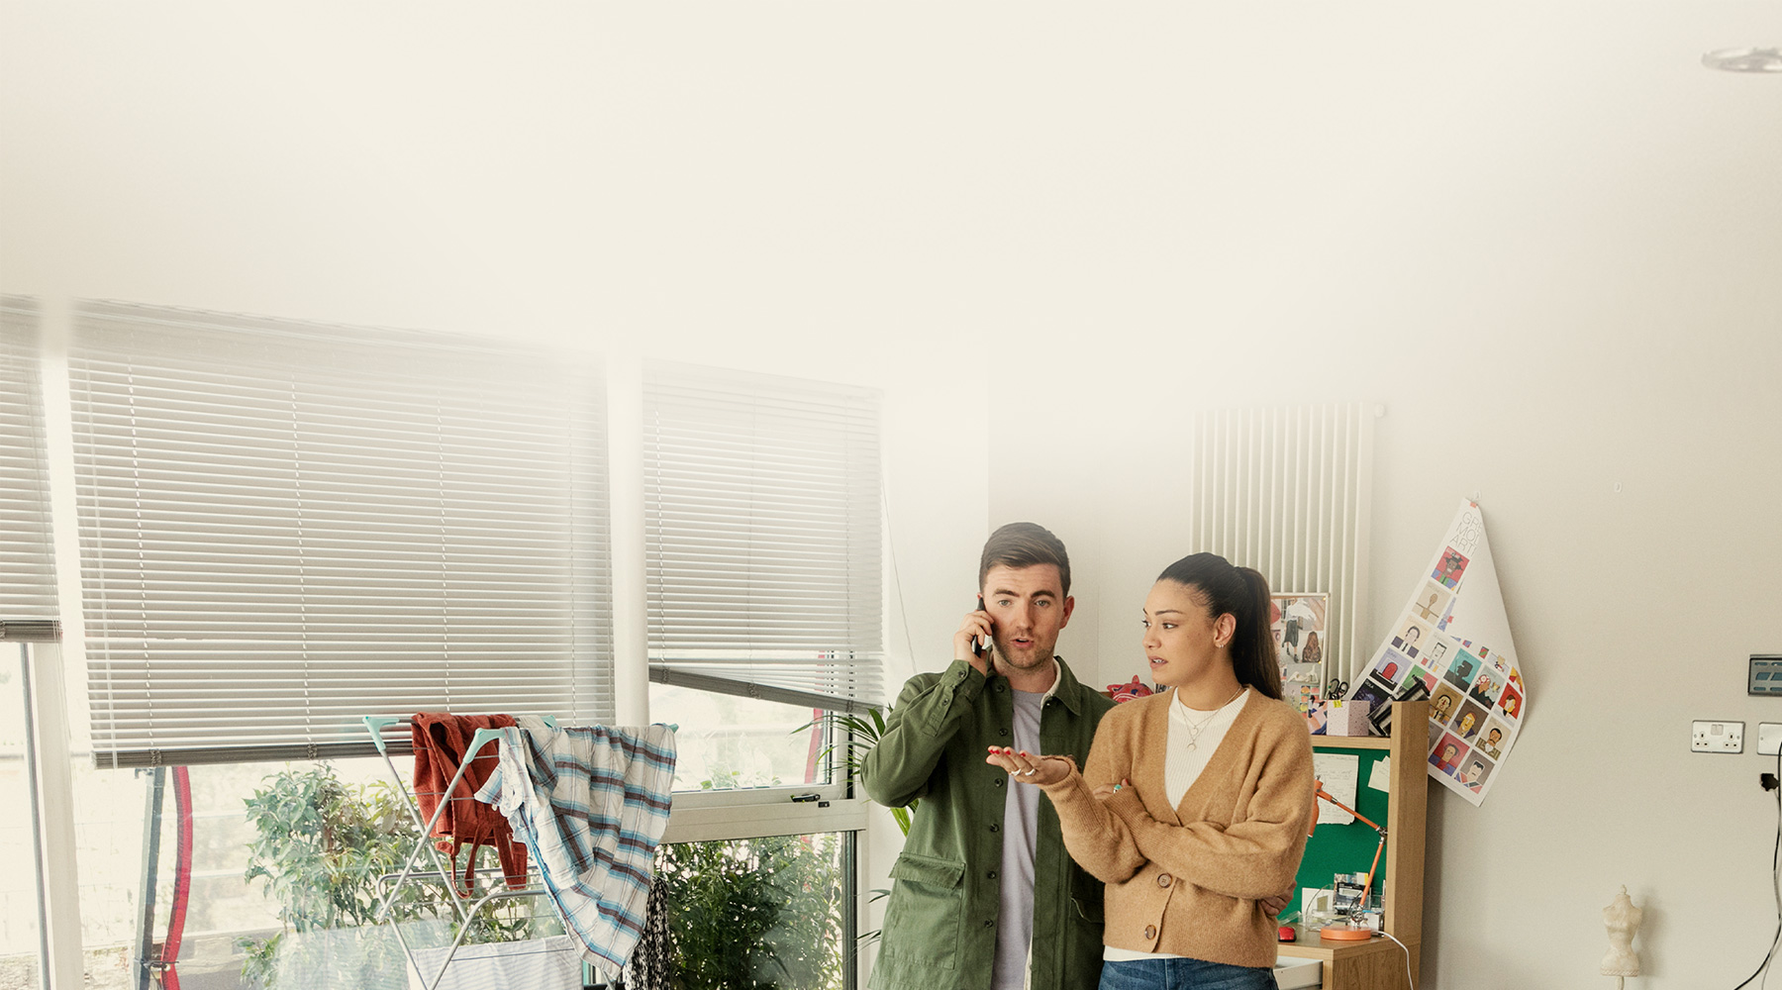
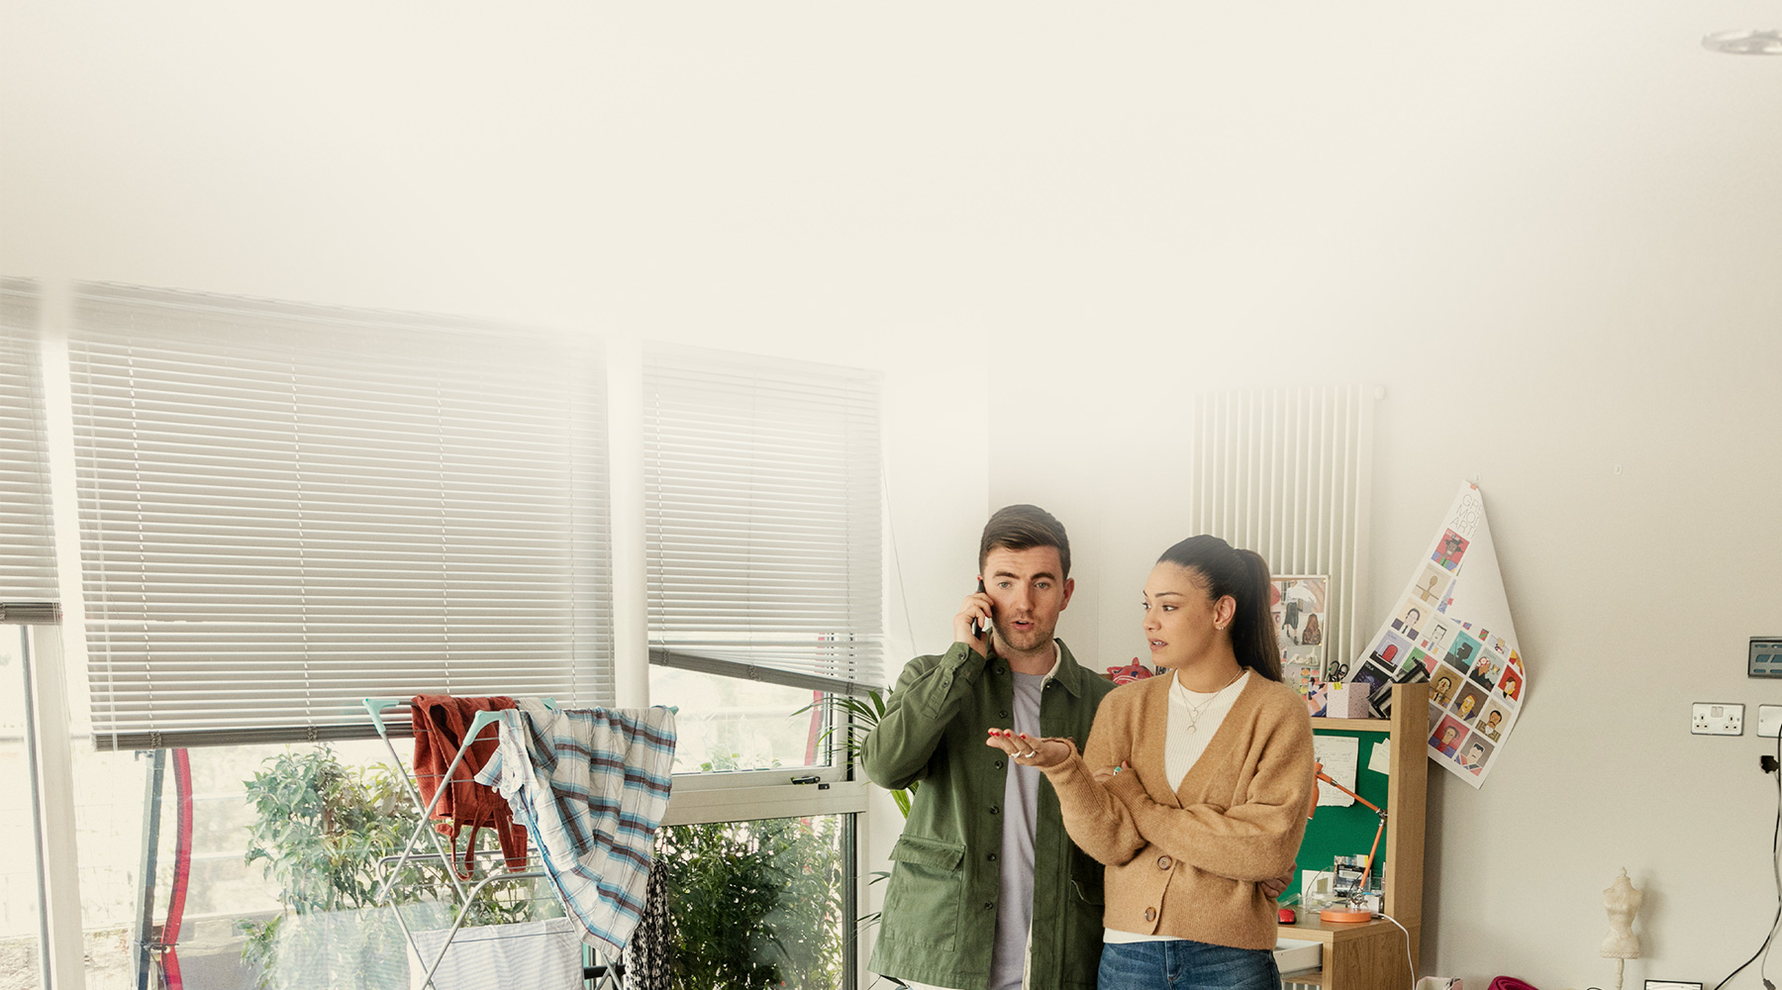
Retouched Huskies stage images for production and added examples

diff --git a/components/product-stages.html b/components/product-stages.html
@@ -345,6 +345,39 @@
             <div class="l-grid l-grid--max-width">
                 <div class="l-grid__row">
                     <div class="l-grid__column-12 u-margin-top-lg u-margin-bottom-lg">
+                        <h5>stage-home-ad-01</h5>
+                    </div>
+                </div>
+            </div>
+            <div class="c-stage c-stage--landing c-stage--1by1dot4-ratio">
+                <div class="c-stage__wrapper">
+                    <div class="c-stage__image-container">
+                        <picture class="c-image c-stage__image c-stage__image--cover">
+                            <img class="c-image__img" alt="" src="../assets/img/stage/stage-home-ad-01.jpg" />
+                        </picture>
+                    </div>
+                    <div class="l-grid l-grid--max-width c-stage__content">
+                        <div class="l-grid__row c-stage__content__grid">
+                            <div class="l-grid__column-large-8 offset-large-2 l-grid__column-medium-10 offset-medium-1">
+                                <h4 class="c-heading c-stage__topline">Allianz <em class="u-text-weight-semibold">Product title</em></h4>
+                            </div>
+                            <div class="l-grid__column-large-10 offset-large-1 l-grid__column-medium-12">
+                                <h1 class="c-heading c-stage__headline u-text-weight-light">Headline for <em class="u-text-weight-bold">stage layouts</em></h1>
+                            </div>
+                            <div class="l-grid__column-medium-10 offset-medium-1 l-grid__column-large-8 offset-large-2">
+                                <h3 class="c-heading c-stage__highlight-text u-text-weight-bold"><em class="u-text-weight-bold">XX% off</em> new policies&nbsp;online*</h3>
+                                <p class="c-copy c-copy--medium"><span class="ai-terms">*Minimum premium of &euro;284 applies. The premium reduction does not apply to the personal accident, personal effects, windscreen cover or breakdown assistance&nbsp;options.</span></p>
+                            </div>
+                            <div class="l-grid__column-medium-8 offset-medium-2 c-stage__button__grid">
+                                <a href="" class="c-button">Get Quote</a>
+                            </div>
+                        </div>
+                    </div>
+                </div>
+            </div>
+            <div class="l-grid l-grid--max-width">
+                <div class="l-grid__row">
+                    <div class="l-grid__column-12 u-margin-top-lg u-margin-bottom-lg">
                         <h5>stage-renters-01</h5>
                     </div>
                 </div>
@@ -354,6 +387,39 @@
                     <div class="c-stage__image-container">
                         <picture class="c-image c-stage__image c-stage__image--cover">
                             <img class="c-image__img" alt="" src="../assets/img/stage/stage-renters-01.jpg" />
+                        </picture>
+                    </div>
+                    <div class="l-grid l-grid--max-width c-stage__content">
+                        <div class="l-grid__row c-stage__content__grid">
+                            <div class="l-grid__column-large-8 offset-large-2 l-grid__column-medium-10 offset-medium-1">
+                                <h4 class="c-heading c-stage__topline">Allianz <em class="u-text-weight-semibold">Product title</em></h4>
+                            </div>
+                            <div class="l-grid__column-large-10 offset-large-1 l-grid__column-medium-12">
+                                <h1 class="c-heading c-stage__headline u-text-weight-light">Headline for <em class="u-text-weight-bold">stage layouts</em></h1>
+                            </div>
+                            <div class="l-grid__column-medium-10 offset-medium-1 l-grid__column-large-8 offset-large-2">
+                                <h3 class="c-heading c-stage__highlight-text u-text-weight-bold"><em class="u-text-weight-bold">XX% off</em> new policies&nbsp;online*</h3>
+                                <p class="c-copy c-copy--medium"><span class="ai-terms">*Minimum premium of &euro;284 applies. The premium reduction does not apply to the personal accident, personal effects, windscreen cover or breakdown assistance&nbsp;options.</span></p>
+                            </div>
+                            <div class="l-grid__column-medium-8 offset-medium-2 c-stage__button__grid">
+                                <a href="" class="c-button">Get Quote</a>
+                            </div>
+                        </div>
+                    </div>
+                </div>
+            </div>
+            <div class="l-grid l-grid--max-width">
+                <div class="l-grid__row">
+                    <div class="l-grid__column-12 u-margin-top-lg u-margin-bottom-lg">
+                        <h5>stage-renters-ad-01</h5>
+                    </div>
+                </div>
+            </div>
+            <div class="c-stage c-stage--landing c-stage--1by1dot4-ratio">
+                <div class="c-stage__wrapper">
+                    <div class="c-stage__image-container">
+                        <picture class="c-image c-stage__image c-stage__image--cover">
+                            <img class="c-image__img" alt="" src="../assets/img/stage/stage-renters-ad-01.jpg" />
                         </picture>
                     </div>
                     <div class="l-grid l-grid--max-width c-stage__content">
@@ -953,6 +1019,39 @@
                     </div>
                 </div>
             </div>
+            <div class="l-grid l-grid--max-width">
+                <div class="l-grid__row">
+                    <div class="l-grid__column-12 u-margin-top-lg u-margin-bottom-lg">
+                        <h5>stage-why-allianz-ad-01</h5>
+                    </div>
+                </div>
+            </div>
+            <div class="c-stage c-stage--landing c-stage--1by1dot4-ratio">
+                <div class="c-stage__wrapper">
+                    <div class="c-stage__image-container">
+                        <picture class="c-image c-stage__image c-stage__image--cover">
+                            <img class="c-image__img" alt="" src="../assets/img/stage/stage-why-allianz-ad-01.jpg" />
+                        </picture>
+                    </div>
+                    <div class="l-grid l-grid--max-width c-stage__content">
+                        <div class="l-grid__row c-stage__content__grid">
+                            <div class="l-grid__column-large-8 offset-large-2 l-grid__column-medium-10 offset-medium-1">
+                                <h4 class="c-heading c-stage__topline">Allianz <em class="u-text-weight-semibold">Product title</em></h4>
+                            </div>
+                            <div class="l-grid__column-large-10 offset-large-1 l-grid__column-medium-12">
+                                <h1 class="c-heading c-stage__headline u-text-weight-light">Headline for <em class="u-text-weight-bold">stage layouts</em></h1>
+                            </div>
+                            <div class="l-grid__column-medium-10 offset-medium-1 l-grid__column-large-8 offset-large-2">
+                                <h3 class="c-heading c-stage__highlight-text u-text-weight-bold"><em class="u-text-weight-bold">XX% off</em> new policies&nbsp;online*</h3>
+                                <p class="c-copy c-copy--medium"><span class="ai-terms">*Minimum premium of &euro;284 applies. The premium reduction does not apply to the personal accident, personal effects, windscreen cover or breakdown assistance&nbsp;options.</span></p>
+                            </div>
+                            <div class="l-grid__column-medium-8 offset-medium-2 c-stage__button__grid">
+                                <a href="" class="c-button">Get Quote</a>
+                            </div>
+                        </div>
+                    </div>
+                </div>
+            </div>
         </div>
         <div class="l-grid l-grid--max-width">
             <div class="l-grid__row">
@@ -975,6 +1074,39 @@
                     <div class="c-stage__image-container">
                         <picture class="c-image c-stage__image c-stage__image--cover">
                             <img class="c-image__img" alt="" src="../assets/img/stage/stage-ai-app-01.jpg" />
+                        </picture>
+                    </div>
+                    <div class="l-grid l-grid--max-width c-stage__content">
+                        <div class="l-grid__row c-stage__content__grid">
+                            <div class="l-grid__column-large-8 offset-large-2 l-grid__column-medium-10 offset-medium-1">
+                                <h4 class="c-heading c-stage__topline">Allianz <em class="u-text-weight-semibold">Product title</em></h4>
+                            </div>
+                            <div class="l-grid__column-large-10 offset-large-1 l-grid__column-medium-12">
+                                <h1 class="c-heading c-stage__headline u-text-weight-light">Headline for <em class="u-text-weight-bold">stage layouts</em></h1>
+                            </div>
+                            <div class="l-grid__column-medium-10 offset-medium-1 l-grid__column-large-8 offset-large-2">
+                                <h3 class="c-heading c-stage__highlight-text u-text-weight-bold"><em class="u-text-weight-bold">XX% off</em> new policies&nbsp;online*</h3>
+                                <p class="c-copy c-copy--medium"><span class="ai-terms">*Minimum premium of &euro;284 applies. The premium reduction does not apply to the personal accident, personal effects, windscreen cover or breakdown assistance&nbsp;options.</span></p>
+                            </div>
+                            <div class="l-grid__column-medium-8 offset-medium-2 c-stage__button__grid">
+                                <a href="" class="c-button">Get Quote</a>
+                            </div>
+                        </div>
+                    </div>
+                </div>
+            </div>
+            <div class="l-grid l-grid--max-width">
+                <div class="l-grid__row">
+                    <div class="l-grid__column-12 u-margin-top-lg u-margin-bottom-lg">
+                        <h5>stage-child-ball-01</h5>
+                    </div>
+                </div>
+            </div>
+            <div class="c-stage c-stage--landing c-stage--1by1dot4-ratio">
+                <div class="c-stage__wrapper">
+                    <div class="c-stage__image-container">
+                        <picture class="c-image c-stage__image c-stage__image--cover">
+                            <img class="c-image__img" alt="" src="../assets/img/stage/stage-child-ball-01.jpg" />
                         </picture>
                     </div>
                     <div class="l-grid l-grid--max-width c-stage__content">

diff --git a/roi/index-cookie.html b/roi/index-cookie.html
@@ -1289,7 +1289,7 @@
                     <div class="c-carousel__slide c-carousel__stage__slide u-flexible-ratio-small-down--1by1dot4 js-data-stage--with-navigation" data-label="Home Insurance" data-icon="c-icon c-icon--product-house">
                         <div class="c-stage__image-container">
                             <picture class="c-image c-stage__image c-stage__image--cover">
-                                <img class="c-image__img" alt="" src="../assets/img/stage/stage-home-01.jpg" />
+                                <img class="c-image__img" alt="" src="../assets/img/stage/stage-home-ad-01.jpg" />
                             </picture>
                         </div>
                         <div class="c-stage__content l-grid l-grid--max-width">
@@ -1348,7 +1348,7 @@
                                     <h4 class="c-heading c-stage__topline">Take control with</h4>
                                 </div>
                                 <div class="l-grid__column-large-10 offset-large-1">
-                                    <h1 class="c-heading c-heading--bold-cap c-stage__headline js-extra-height-headline"> Secure <em class="t-primary-brand">MyAllianz</em></h1>
+                                    <h1 class="c-heading c-heading--bold-cap c-stage__headline js-extra-height-headline"> Secure <em class="t-process-info">MyAllianz</em></h1>
                                 </div>
                                 <div class="l-grid__column-medium-10 offset-medium-1 l-grid__column-large-8 offset-large-2">
                                     <p class="c-copy c-copy--large">Curabitur eu rhoncus turpis. Aenean nec malesuada tortor. In maximus ligula ut faucibus tincidunt.</p>
@@ -1362,7 +1362,7 @@
                     <div class="c-carousel__slide c-carousel__stage__slide u-flexible-ratio-small-down--1by1dot4 js-data-stage--with-navigation" data-label="Why Allianz?" data-icon="c-icon c-icon--product-heart">
                         <div class="c-stage__image-container">
                             <picture class="c-image c-stage__image c-stage__image--cover">
-                                <img class="c-image__img" alt="" src="../assets/img/stage/stage-why-allianz-01.jpg" />
+                                <img class="c-image__img" alt="" src="../assets/img/stage/stage-why-allianz-ad-01.jpg" />
                             </picture>
                         </div>
                         <div class="c-stage__content l-grid l-grid--max-width">
@@ -1371,7 +1371,7 @@
                                     <h4 class="c-heading c-stage__topline">Learn why you should</h4>
                                 </div>
                                 <div class="l-grid__column-large-10 offset-large-1">
-                                    <h1 class="c-heading c-heading--bold-cap c-stage__headline js-extra-height-headline"> Choose <em class="t-primary-brand">Allianz</em></h1>
+                                    <h1 class="c-heading c-heading--bold-cap c-stage__headline js-extra-height-headline"> Choose <em class="t-vibrant-purple">Allianz</em></h1>
                                 </div>
                                 <div class="l-grid__column-medium-10 offset-medium-1 l-grid__column-large-8 offset-large-2">
                                     <p class="c-copy c-copy--large">Curabitur eu rhoncus turpis. Aenean nec malesuada tortor. In maximus ligula ut faucibus tincidunt.</p>

diff --git a/roi/index.html b/roi/index.html
@@ -1282,7 +1282,7 @@
                     <div class="c-carousel__slide c-carousel__stage__slide u-flexible-ratio-small-down--1by1dot4 js-data-stage--with-navigation" data-label="Home Insurance" data-icon="c-icon c-icon--product-house">
                         <div class="c-stage__image-container">
                             <picture class="c-image c-stage__image c-stage__image--cover">
-                                <img class="c-image__img" alt="" src="../assets/img/stage/stage-home-01.jpg" />
+                                <img class="c-image__img" alt="" src="../assets/img/stage/stage-home-ad-01.jpg" />
                             </picture>
                         </div>
                         <div class="c-stage__content l-grid l-grid--max-width">
@@ -1341,7 +1341,7 @@
                                     <h4 class="c-heading c-stage__topline">Take control with</h4>
                                 </div>
                                 <div class="l-grid__column-large-10 offset-large-1">
-                                    <h1 class="c-heading c-heading--bold-cap c-stage__headline js-extra-height-headline"> Secure <em class="t-primary-brand">MyAllianz</em></h1>
+                                    <h1 class="c-heading c-heading--bold-cap c-stage__headline js-extra-height-headline"> Secure <em class="t-process-info">MyAllianz</em></h1>
                                 </div>
                                 <div class="l-grid__column-medium-10 offset-medium-1 l-grid__column-large-8 offset-large-2">
                                     <p class="c-copy c-copy--large">Curabitur eu rhoncus turpis. Aenean nec malesuada tortor. In maximus ligula ut faucibus tincidunt.</p>
@@ -1355,7 +1355,7 @@
                     <div class="c-carousel__slide c-carousel__stage__slide u-flexible-ratio-small-down--1by1dot4 js-data-stage--with-navigation" data-label="Why Allianz?" data-icon="c-icon c-icon--product-heart">
                         <div class="c-stage__image-container">
                             <picture class="c-image c-stage__image c-stage__image--cover">
-                                <img class="c-image__img" alt="" src="../assets/img/stage/stage-why-allianz-01.jpg" />
+                                <img class="c-image__img" alt="" src="../assets/img/stage/stage-why-allianz-ad-01.jpg" />
                             </picture>
                         </div>
                         <div class="c-stage__content l-grid l-grid--max-width">
@@ -1364,7 +1364,7 @@
                                     <h4 class="c-heading c-stage__topline">Learn why you should</h4>
                                 </div>
                                 <div class="l-grid__column-large-10 offset-large-1">
-                                    <h1 class="c-heading c-heading--bold-cap c-stage__headline js-extra-height-headline"> Choose <em class="t-primary-brand">Allianz</em></h1>
+                                    <h1 class="c-heading c-heading--bold-cap c-stage__headline js-extra-height-headline"> Choose <em class="t-vibrant-purple">Allianz</em></h1>
                                 </div>
                                 <div class="l-grid__column-medium-10 offset-medium-1 l-grid__column-large-8 offset-large-2">
                                     <p class="c-copy c-copy--large">Curabitur eu rhoncus turpis. Aenean nec malesuada tortor. In maximus ligula ut faucibus tincidunt.</p>

diff --git a/components/stages.html b/components/stages.html
@@ -65,7 +65,7 @@
                     <div class="c-carousel__slide c-carousel__stage__slide u-flexible-ratio-small-down--1by1dot4 js-data-stage--with-navigation" data-label="Home Insurance" data-icon="c-icon c-icon--product-house">
                         <div class="c-stage__image-container">
                             <picture class="c-image c-stage__image c-stage__image--cover">
-                                <img class="c-image__img" alt="" src="../assets/img/stage/stage-home-01.jpg" />
+                                <img class="c-image__img" alt="" src="../assets/img/stage/stage-home-ad-01.jpg" />
                             </picture>
                         </div>
                         <div class="c-stage__content l-grid l-grid--max-width">
@@ -124,7 +124,7 @@
                                     <h4 class="c-heading c-stage__topline">Take control with</h4>
                                 </div>
                                 <div class="l-grid__column-large-10 offset-large-1">
-                                    <h1 class="c-heading c-heading--bold-cap c-stage__headline js-extra-height-headline"> Secure <em class="t-primary-brand">MyAllianz</em></h1>
+                                    <h1 class="c-heading c-heading--bold-cap c-stage__headline js-extra-height-headline"> Secure <em class="t-process-info">MyAllianz</em></h1>
                                 </div>
                                 <div class="l-grid__column-medium-10 offset-medium-1 l-grid__column-large-8 offset-large-2">
                                     <p class="c-copy c-copy--large">Curabitur eu rhoncus turpis. Aenean nec malesuada tortor. In maximus ligula ut faucibus tincidunt.</p>
@@ -138,7 +138,7 @@
                     <div class="c-carousel__slide c-carousel__stage__slide u-flexible-ratio-small-down--1by1dot4 js-data-stage--with-navigation" data-label="Why Allianz?" data-icon="c-icon c-icon--product-heart">
                         <div class="c-stage__image-container">
                             <picture class="c-image c-stage__image c-stage__image--cover">
-                                <img class="c-image__img" alt="" src="../assets/img/stage/stage-why-allianz-01.jpg" />
+                                <img class="c-image__img" alt="" src="../assets/img/stage/stage-why-allianz-ad-01.jpg" />
                             </picture>
                         </div>
                         <div class="c-stage__content l-grid l-grid--max-width">
@@ -147,7 +147,7 @@
                                     <h4 class="c-heading c-stage__topline">Learn why you should</h4>
                                 </div>
                                 <div class="l-grid__column-large-10 offset-large-1">
-                                    <h1 class="c-heading c-heading--bold-cap c-stage__headline js-extra-height-headline"> Choose <em class="t-primary-brand">Allianz</em></h1>
+                                    <h1 class="c-heading c-heading--bold-cap c-stage__headline js-extra-height-headline"> Choose <em class="t-vibrant-purple">Allianz</em></h1>
                                 </div>
                                 <div class="l-grid__column-medium-10 offset-medium-1 l-grid__column-large-8 offset-large-2">
                                     <p class="c-copy c-copy--large">Curabitur eu rhoncus turpis. Aenean nec malesuada tortor. In maximus ligula ut faucibus tincidunt.</p>

diff --git a/index.html b/index.html
@@ -35,7 +35,7 @@
                     <div class="l-grid__column-medium-9 l-grid__column-large-6 u-margin-top-sm">
                         <a href="usage-guide.html" class="c-button c-button--secondary c-button--extended" target="_blank">Usage Guide</a>
                         <a href="component-guide.html" class="c-button c-button--secondary c-button--extended" target="_blank">Component Guide</a>
-                        <a href="identity-guide.html" class="c-button c-button--secondary c-button--extended" target="_blank">Identity Guide</a>
+                        <!-- <a href="identity-guide.html" class="c-button c-button--secondary c-button--extended" target="_blank">Identity Guide</a> -->
                     </div>
                 </div>
                 <div class="l-grid__row">
@@ -47,7 +47,7 @@
                 <div class="l-grid__row justify-content-center">
                     <div class="l-grid__column-medium-9 l-grid__column-large-6 u-margin-top-sm">
                         <a href="components/icons.html" class="c-button c-button--secondary c-button--extended" target="_blank">Icons</a>
-                        <a href="components/colours.html" class="c-button c-button--secondary c-button--extended" target="_blank">Colours</a>
+                        <!-- <a href="components/colours.html" class="c-button c-button--secondary c-button--extended" target="_blank">Colours</a> -->
                         <a href="components/stages.html" class="c-button c-button--secondary c-button--extended" target="_blank">Stage Types</a>
                         <a href="components/product-stages.html" class="c-button c-button--secondary c-button--extended" target="_blank">Product Stage Image Options</a>
                         <a href="components/header.html" class="c-button c-button--secondary c-button--extended" target="_blank">Header</a>
